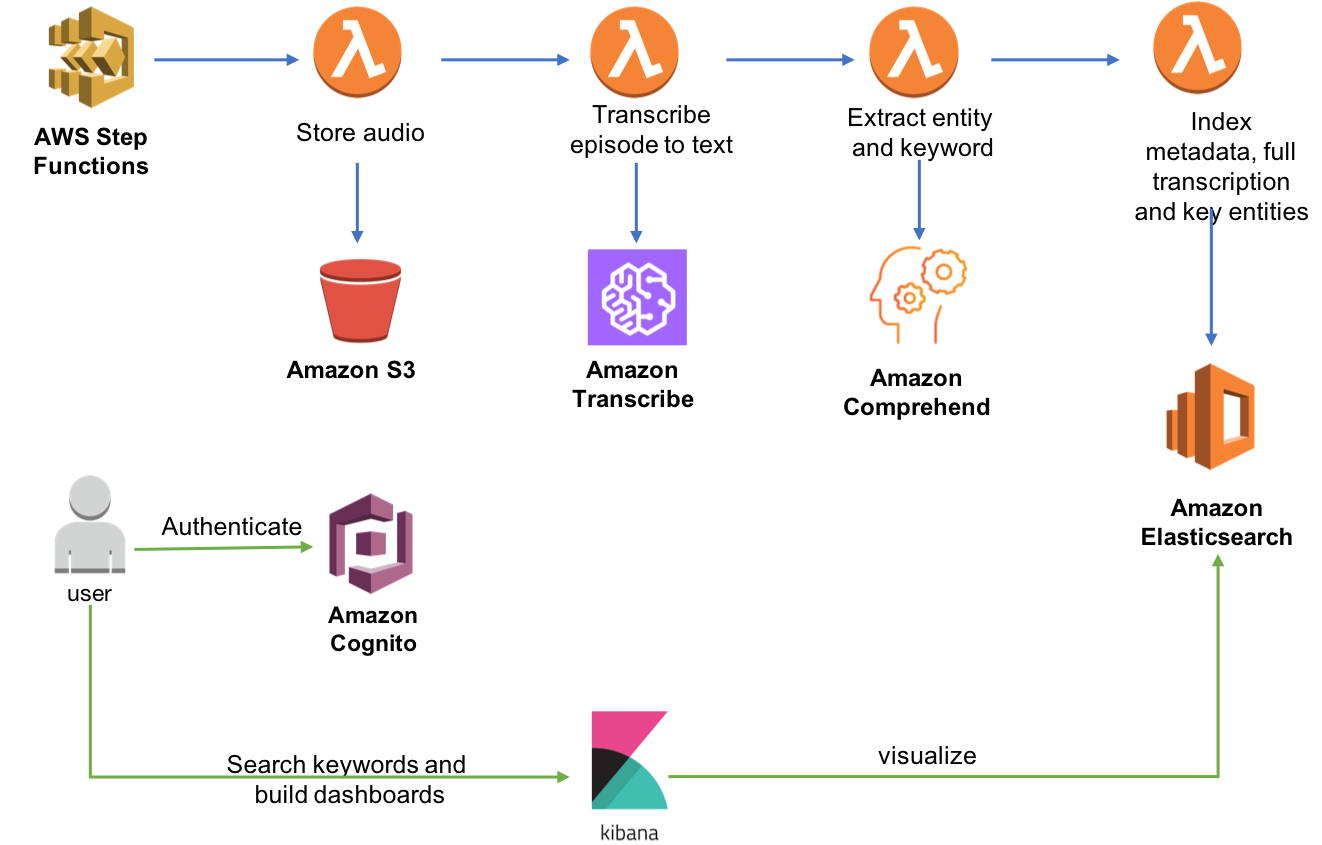
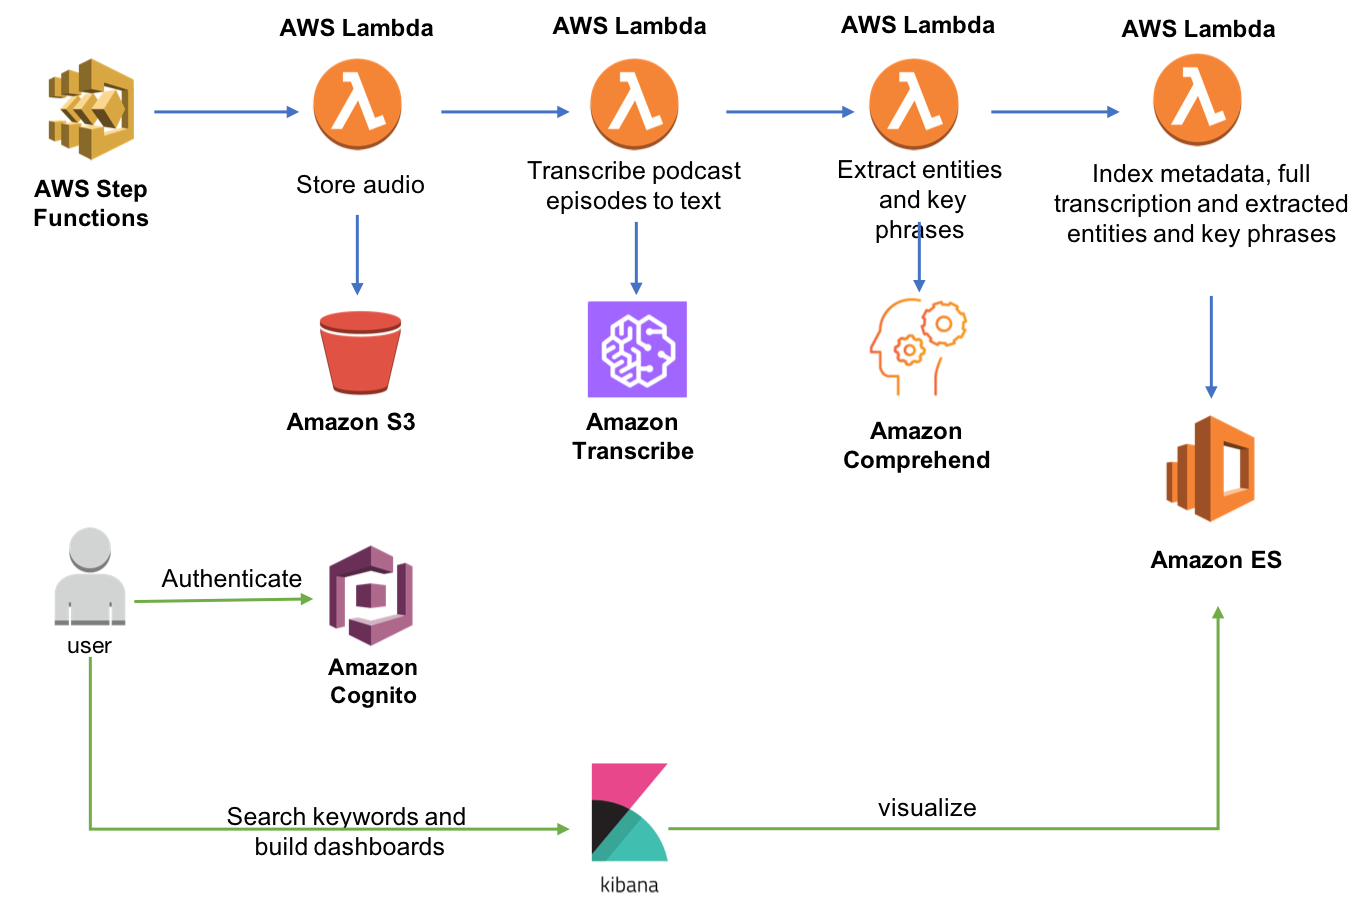
minor edits to diagram lables and wording. also update the cloudformation link

diff --git a/README.md b/README.md
@@ -1,6 +1,6 @@
 ## Amazon Transcribe Comprehend Podcast
 
-A demo application that transcribes and indexes podcast episodes so the listeners can explore and discover episodes of interest and podcast owners can do analytics on the content over time. This solution leverages Amazon Transcribe, Amazon Comprehend, Amazon ElasticSearch, AWS Step Functions and AWS Lambda.
+A demo application that transcribes and indexes podcast episodes so the listeners can explore and discover episodes of interest and podcast owners can do analytics on the content over time. This solution leverages Amazon Transcribe, Amazon Comprehend, Amazon Elasticsearch, AWS Step Functions and AWS Lambda.
 
 ### High-level Architecture
 
@@ -12,7 +12,7 @@ A demo application that transcribes and indexes podcast episodes so the listener
 
 	Region| Region Code | Launch
 	------|------|-------
-	US East (Virginia)| <span style="font-family:'Courier';">us-east-1</span> | [![Launch Step 0A in us-east-2](images/cfn-launch-stack.png)](https://console.aws.amazon.com/cloudformation/home?region=us-east-1#/stacks/new?stackName=podcast-transcribe-index&templateURL=https://s3.amazonaws.com/angelaw-workshop/podcast-code/packaged.yaml)
+	US East (Virginia)| <span style="font-family:'Courier';">us-east-1</span> | [![Launch Step 0A in us-east-2](images/cfn-launch-stack.png)](https://console.aws.amazon.com/cloudformation/home?region=us-east-1#/stacks/new?stackName=podcast-transcribe-index&templateURL=https://s3.amazonaws.com/aws-machine-learning-blog/artifacts/discovering-podcasts/packaged.yaml)
 
 	* Click **Create Change Set** to create the change set for this transform
 
@@ -151,8 +151,10 @@ You need to map the visualization objects to the indices in your Kibana applicat
 #### RSS Feed Step Function State Machine Lambda functions
  
 * **processPodcastRss**: Downloads the RSS file and parses it to determine the episodes to download. This function also leverages Amazon Comprehend's [**entity extraction**](https://docs.aws.amazon.com/comprehend/latest/dg/how-entities.html) feature for 2 use cases:
-    * Compute an estimate on the number of speakers in each episode. We do this by using Comprehend to find people's names in each episode's abstract, because we find many podcast hosts likes to mention their guest speaker's names in the abstract. This helps us later when we use Amazon Transcribe to break out the transcription into multiple speakers. If no names are found in the abstract, we will assume the episode is a one man show. 
-    * Build a domain-specific custom vocabulary list. If a Podcast is about AWS, you will hear lots of terminologies unique to the specific domain (e.g. EC2, Github) that are completely different from a Podcast about Astronomy (e.g. Neptune, Milky Way). Providing a custom vocabulary list to Transcribe can help guide the service in identifying an audio segment sounding like “easy too” to its actual meaning “EC2”. In this example, we automatically generate the custom vocabulary list by using the named entities extracted from episode abstracts to make Amazon Transcribe more domain aware. Keep in mind that this approach may not cover all jargons that could appear in transcripts. To get more accurate transcriptions, you can complement this approach by drafting a common dictionary of domain specific terms to construct this custom vocabulary list for Amazon Transcribe. 
+
+	* To compute an estimate of the number of speakers in each episode. We do this by using Amazon Comprehend to find people's names in each episode's abstract. We find that many podcast hosts like to mention their guest speakers’ names in the abstract. This helps us later when we use Amazon Transcribe to break out the transcription into multiple speakers. If no names are found in the abstract, we will assume the episode has a single speaker. 
+
+	* To build a domain-specific custom vocabulary list. If a podcast is about AWS, you will hear lots of expressions unique to the specific domain (e.g., EC2, S3) that are completely different from expressions found in a podcast about astronomy (e.g., Milky Way, Hubble). Providing a custom vocabulary list to Amazon Transcribe can help guide the service in identifying an audio segment that sounds like “easy too” to its actual meaning “EC2.” In this blog post, we automatically generate the custom vocabulary list by using the named entities extracted from episode abstracts to make Amazon Transcribe more domain aware. Keep in mind that this approach may not cover all jargon that could appear in the transcripts. To get more accurate transcriptions, you can complement this approach by drafting a list of common domain-specific terms so that you can construct a custom vocabulary list for Amazon Transcribe. 
 
 
 * **createTranscribeVocabulary**: Creates a [**custom vocabulary**](https://docs.aws.amazon.com/transcribe/latest/dg/how-it-works.html#how-vocabulary) for the Amazon Transcribe jobs so it will better understand when an AWS/tech jargon is mentioned. The custom vocabulary is created using the method mentioned above. 
